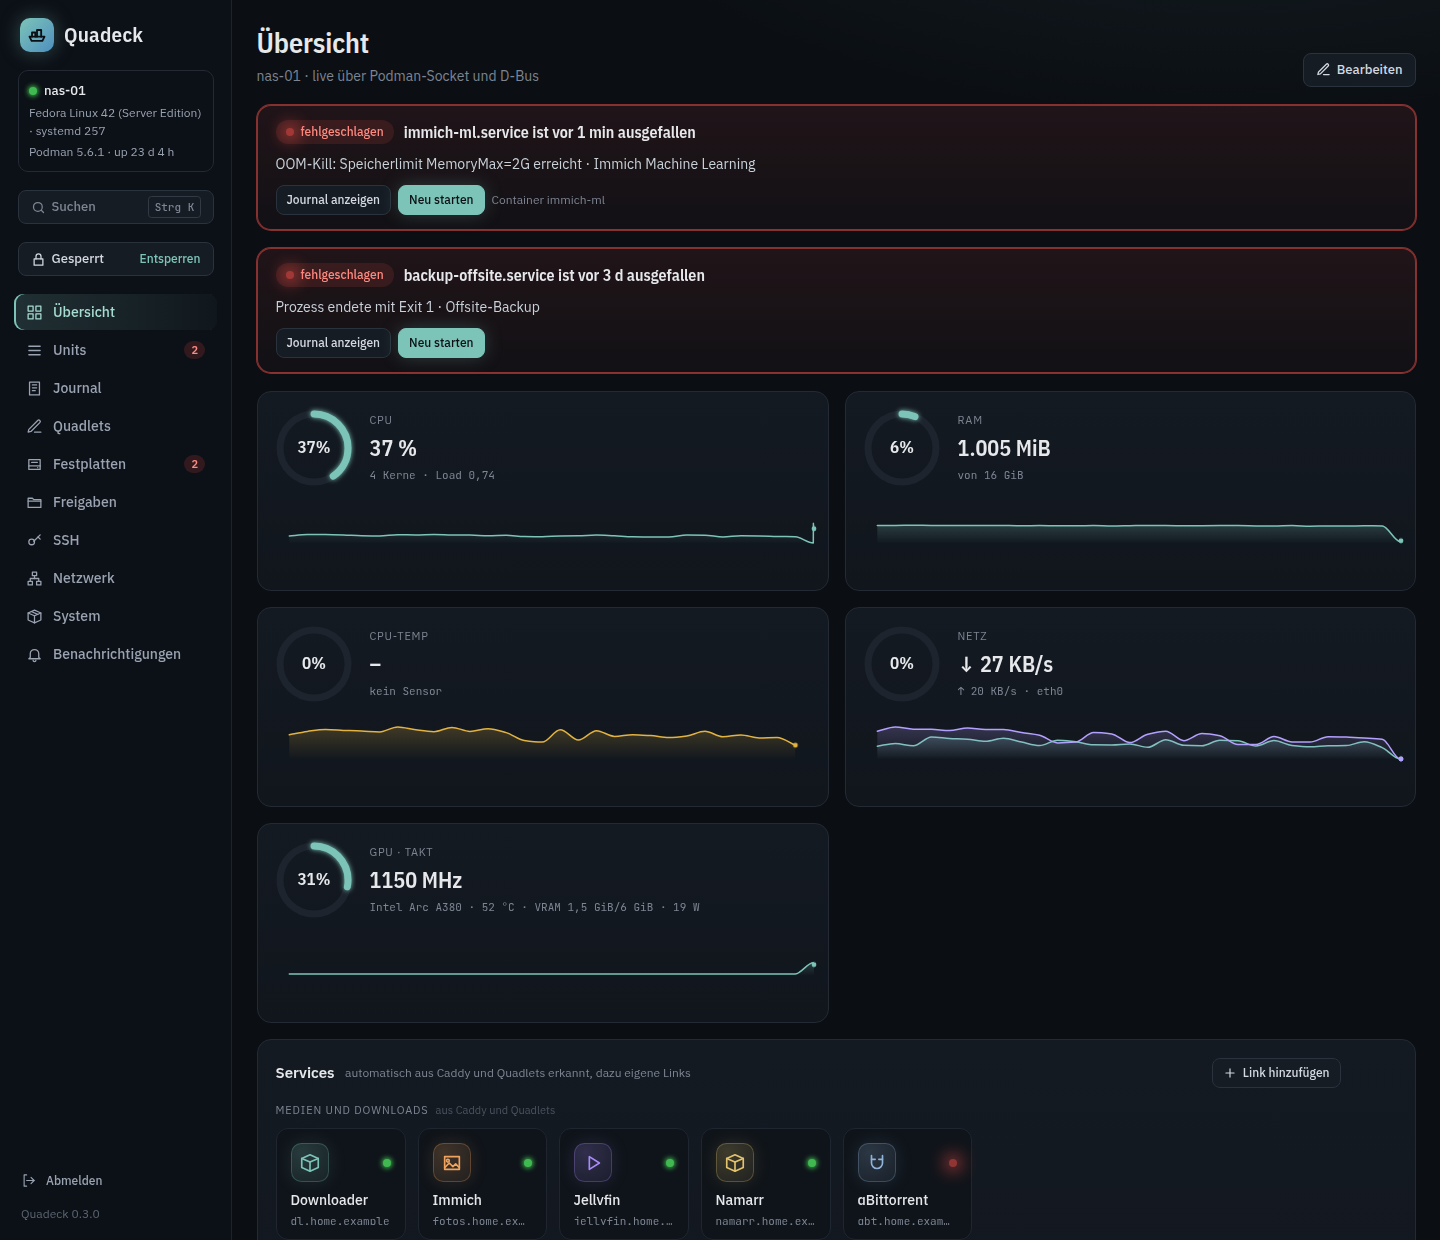
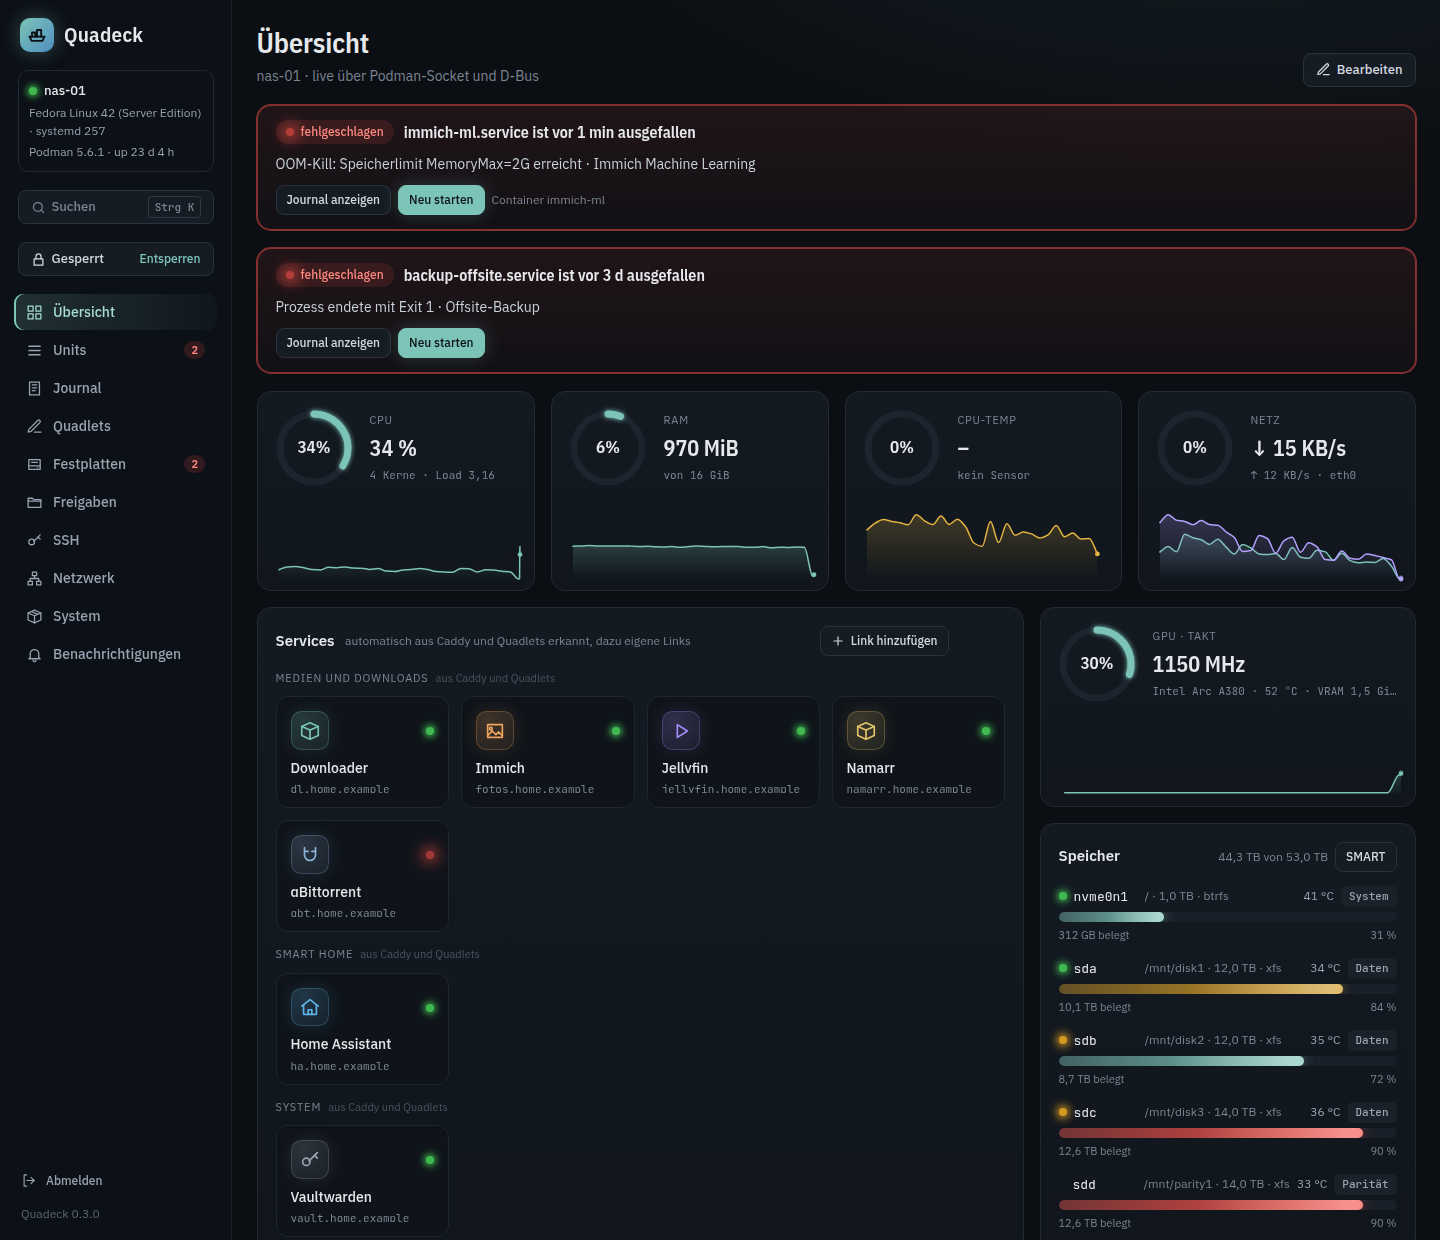
Metrik-Karten: kleiner und quadratisch möglich, Verlauf füllt die Karte (#17)
CPU, RAM, Temperatur, Netz und GPU haben jetzt eine feste Starthöhe;
der Verlauf füllt die Höhe der Karte. In schmalen Karten werden Ring
und Text per Container-Query kompakter (unter 170 px gestapelt), so
dass Karten bis zwei Spalten breit und quadratisch gut aussehen.
Das Desktop-Raster (12 Spalten) gilt ab 960 px statt 1200 px Breite,
damit auf üblichen Bildschirmen vier Karten nebeneinander stehen.
Karten mit fester Höhe füllen ihre Rasterzelle.

Claude-Session: https://claude.ai/code/session_01Vrgb7cjpgCXq9Tjg2bnuPN

diff --git a/src/components/HistoryChart.tsx b/src/components/HistoryChart.tsx
@@ -15,6 +15,8 @@ export interface ChartProps {
   /** Fixed y range (e.g. 0..1 for percent); otherwise from the data. */
   yMin?: number
   yMax?: number
+  /** Take the height of the surrounding box instead of `height` (min. 16 px, otherwise hidden). */
+  fill?: boolean
   height?: number
   /** Axis labels and hover tooltip (detail view). */
   detailed?: boolean
@@ -72,18 +74,23 @@ const tooltipLabel = (ts: number, span: number) =>
  * Area chart over a time window. Gaps in the data (Quadeck was not running)
  * stay gaps instead of being bridged by a straight line.
  */
-export function HistoryChart({ series, span, now, format, yMin, yMax, height = 44, detailed = false, label }: ChartProps) {
+export function HistoryChart({ series, span, now, format, yMin, yMax, height = 44, detailed = false, label, fill = false }: ChartProps) {
   const wrap = useRef<HTMLDivElement>(null)
   const [width, setWidth] = useState(0)
+  const [boxH, setBoxH] = useState(0)
   const [hover, setHover] = useState<number | null>(null)
   const uid = useId().replace(/:/g, '')
 
   useEffect(() => {
     const el = wrap.current
     if (!el || typeof ResizeObserver === 'undefined') return
-    const ro = new ResizeObserver(() => setWidth(el.clientWidth))
+    const read = () => {
+      setWidth(el.clientWidth)
+      setBoxH(el.clientHeight)
+    }
+    const ro = new ResizeObserver(read)
     ro.observe(el)
-    setWidth(el.clientWidth)
+    read()
     return () => ro.disconnect()
   }, [])
 
@@ -95,7 +102,8 @@ export function HistoryChart({ series, span, now, format, yMin, yMax, height = 4
   const lo = yMin ?? Math.floor(dataMin - Math.max(2, (dataMax - dataMin) * 0.15))
   const hi = yMax ?? (dataMax > lo ? dataMax + (dataMax - lo) * 0.12 : lo + 1)
   const padTop = detailed ? 8 : 3
-  const h = height
+  // fill: as tall as the box it sits in (cards resized by the user).
+  const h = fill && boxH > 0 ? boxH : height
   const x = (t: number) => ((t - start) / span) * width
   const y = (v: number) => padTop + (1 - (Math.min(hi, Math.max(lo, v)) - lo) / (hi - lo)) * (h - padTop - 1)
   // A gap is anything longer than three of the usual steps (and at least 90 s).
@@ -153,8 +161,8 @@ export function HistoryChart({ series, span, now, format, yMin, yMax, height = 4
           <span className="absolute right-0 bottom-[-5px]">{format(lo)}</span>
         </div>
       )}
-    <div ref={wrap} className="relative min-w-0 grow" style={{ height: h }} role="img" aria-label={label}>
-      {width > 0 && (
+    <div ref={wrap} className="relative min-w-0 grow" style={{ height: fill ? '100%' : h }} role="img" aria-label={label}>
+      {width > 0 && h >= 16 && (
         <svg
           width={width}
           height={h}

diff --git a/src/components/Gauge.tsx b/src/components/Gauge.tsx
@@ -5,8 +5,9 @@ export function Gauge({ id, label, value, sub, p, bare }: { id: string; label: s
   const clamped = Math.max(0, Math.min(1, p || 0))
   const color = clamped > 0.85 ? '#f85149' : clamped > 0.7 ? '#d29922' : '#7cc4b8'
   return (
-    <div className={`${bare ? '' : 'panel'} flex items-center gap-4 p-4`} data-testid={`gauge-${id}`}>
-      <svg width="84" height="84" viewBox="0 0 84 84" className="shrink-0" role="img" aria-label={`${label} ${Math.round(clamped * 100)} %`}>
+    // Narrow cards (container query on the card): smaller ring and text, stacked when very narrow.
+    <div className={`${bare ? '' : 'panel'} flex items-center gap-4 p-4 @max-[259px]:gap-3 @max-[259px]:p-3 @max-[169px]:flex-col @max-[169px]:items-start @max-[169px]:gap-2`} data-testid={`gauge-${id}`}>
+      <svg viewBox="0 0 84 84" className="size-[84px] shrink-0 @max-[259px]:size-[60px] @max-[169px]:size-[52px]" role="img" aria-label={`${label} ${Math.round(clamped * 100)} %`}>
         <defs>
           <filter id={`glow-${id}`} x="-50%" y="-50%" width="200%" height="200%">
             <feGaussianBlur stdDeviation="2.6" result="b" />
@@ -35,10 +36,10 @@ export function Gauge({ id, label, value, sub, p, bare }: { id: string; label: s
           {Math.round(clamped * 100)}%
         </text>
       </svg>
-      <div className="flex min-w-0 flex-col gap-[3px]">
+      <div className="flex w-full min-w-0 flex-col gap-[3px]">
         <span className="label-caps">{label}</span>
-        <span className="font-cond text-[22px] font-semibold tabular-nums">{value}</span>
-        <span className="truncate font-mono text-[11px] text-muted">{sub}</span>
+        <span className="truncate font-cond text-[22px] font-semibold tabular-nums @max-[259px]:text-[18px]">{value}</span>
+        <span className="truncate font-mono text-[11px] text-muted @max-[259px]:text-[10px]">{sub}</span>
       </div>
     </div>
   )

diff --git a/src/routes/_app/index.tsx b/src/routes/_app/index.tsx
@@ -41,7 +41,8 @@ const CARDS = [
 type CardId = (typeof CARDS)[number]['id']
 
 // Gauge + one-hour chart; height follows the content.
-const GAUGE = { minW: 2, minH: 6 }
+// Metric cards have a fixed height (the chart fills it) and can be made small and square.
+const GAUGE = { h: 6, minW: 2, minH: 4 }
 
 /** Default card layout per breakpoint (h omitted = height follows the content). */
 const CARD_DEFAULTS: Record<string, Record<CardId, Omit<DefaultItem, 'i'>>> = {
@@ -57,11 +58,11 @@ const CARD_DEFAULTS: Record<string, Record<CardId, Omit<DefaultItem, 'i'>>> = {
     shares: { x: 8, y: 300, w: 4, minW: 2, minH: 3 },
   },
   md: {
-    cpu: { x: 0, y: 0, w: 3, ...GAUGE, minW: 1 },
-    ram: { x: 3, y: 0, w: 3, ...GAUGE, minW: 1 },
-    temp: { x: 0, y: 4, w: 3, ...GAUGE, minW: 1 },
-    net: { x: 3, y: 4, w: 3, ...GAUGE, minW: 1 },
-    gpu: { x: 0, y: 8, w: 3, ...GAUGE, minW: 1 },
+    cpu: { x: 0, y: 0, w: 2, ...GAUGE, minW: 1 },
+    ram: { x: 2, y: 0, w: 2, ...GAUGE, minW: 1 },
+    temp: { x: 4, y: 0, w: 2, ...GAUGE, minW: 1 },
+    net: { x: 0, y: 6, w: 3, ...GAUGE, minW: 1 },
+    gpu: { x: 3, y: 6, w: 3, ...GAUGE, minW: 1 },
     services: { x: 0, y: 12, w: 6, minW: 2, minH: 3 },
     storage: { x: 0, y: 200, w: 3, minW: 2, minH: 3 },
     timers: { x: 3, y: 200, w: 3, minW: 2, minH: 3 },
@@ -80,7 +81,7 @@ const CARD_DEFAULTS: Record<string, Record<CardId, Omit<DefaultItem, 'i'>>> = {
   },
 }
 
-const PAGE_GRID_BASE = { breakpoints: { lg: 1200, md: 700, xs: 0 }, cols: { lg: 12, md: 6, xs: 1 }, rowHeight: 20, margin: [16, 16] as [number, number] }
+const PAGE_GRID_BASE = { breakpoints: { lg: 960, md: 640, xs: 0 }, cols: { lg: 12, md: 6, xs: 1 }, rowHeight: 20, margin: [16, 16] as [number, number] }
 
 // ---------- tile grid (level 2, inside the Services card) ----------
 

diff --git a/src/components/MetricCards.tsx b/src/components/MetricCards.tsx
@@ -109,7 +109,7 @@ export function MetricCard({ id, snapshot, history, now, onOpen }: { id: MetricC
   return (
     <button
       type="button"
-      className="no-drag flex w-full cursor-pointer flex-col rounded-[inherit] text-left transition-colors duration-200 hover:bg-[rgba(255,255,255,.025)]"
+      className="no-drag @container flex h-full min-h-[120px] w-full cursor-pointer flex-col rounded-[inherit] text-left transition-colors duration-200 hover:bg-[rgba(255,255,255,.025)]"
       aria-label={`${METRIC_LABEL[id]}: Verlauf öffnen`}
       data-testid={`metric-card-${id}`}
       onClick={() => {
@@ -117,8 +117,9 @@ export function MetricCard({ id, snapshot, history, now, onOpen }: { id: MetricC
       }}
     >
       {gauge(id, snapshot)}
-      <div className="px-4 pb-3">
+      <div className="flex min-h-0 flex-1 px-4 pb-3 @max-[259px]:px-3">
         <HistoryChart
+          fill
           label={`${METRIC_LABEL[id]}, letzte Stunde`}
           series={def.series.map((s) => ({ label: s.label, color: s.color, points: history[s.metric] ?? [] }))}
           span={HISTORY_RANGES['1h']}

diff --git a/src/components/EditableGrid.tsx b/src/components/EditableGrid.tsx
@@ -128,12 +128,15 @@ export function EditableGrid({ spec, items, saved, editing, onSave, handle, clas
     resized.current.clear()
   }
 
+  const fixed = new Set((layouts[bp] ?? []).filter((l) => !l.auto).map((l) => l.i))
   const children = items.map((it) => (
     <div key={it.i} className={`grid-item ${itemClassName ?? ''} ${editing ? 'editing' : ''}`} data-testid={`grid-item-${it.i}`}>
       {editing && renderChrome?.(it.i)}
       {measureItems ? (
         <div className="grid-item-scroll">
-          <div ref={measure(it.i)}>{it.node}</div>
+          <div ref={measure(it.i)} className={fixed.has(it.i) ? 'h-full' : undefined}>
+            {it.node}
+          </div>
         </div>
       ) : (
         it.node

diff --git a/docs/dashboard.md b/docs/dashboard.md
@@ -113,12 +113,15 @@ red dot means the last run of the triggered service failed. **Alle** opens the t
 The overview starts with a finished layout. **Bearbeiten** (or `E`) edits it on two levels:
 
 - **Cards** (CPU, RAM, temperature, network, GPU, services, storage, timers, shares): drag by the
-  handle, resize at the bottom-right corner, hide and show again.
+  handle, resize at the bottom-right corner, hide and show again. The metric cards (CPU, RAM,
+  temperature, network, GPU) can be made as small as two columns and square: the ring and the
+  text get more compact in narrow cards, and the history chart fills whatever height the card has.
 - **Tiles** inside the services card: move and resize within their group, for example Jellyfin
   as a 2×2 tile. The group of a tile is set by the `quadeck.group` label or the override.
 
-The layout is stored per screen width (desktop, tablet, phone) in SQLite. Cards size their height
-to their content until you resize them yourself. **Auf Auto-Layout zurücksetzen** restores the
+The layout is stored per screen width (desktop from 960 px content width with 12 columns, tablet
+with 6, phone with 1) in SQLite. Metric cards start at a fixed height; the other cards size their
+height to their content until you resize them yourself. **Auf Auto-Layout zurücksetzen** restores the
 default.
 
 ## Command palette
